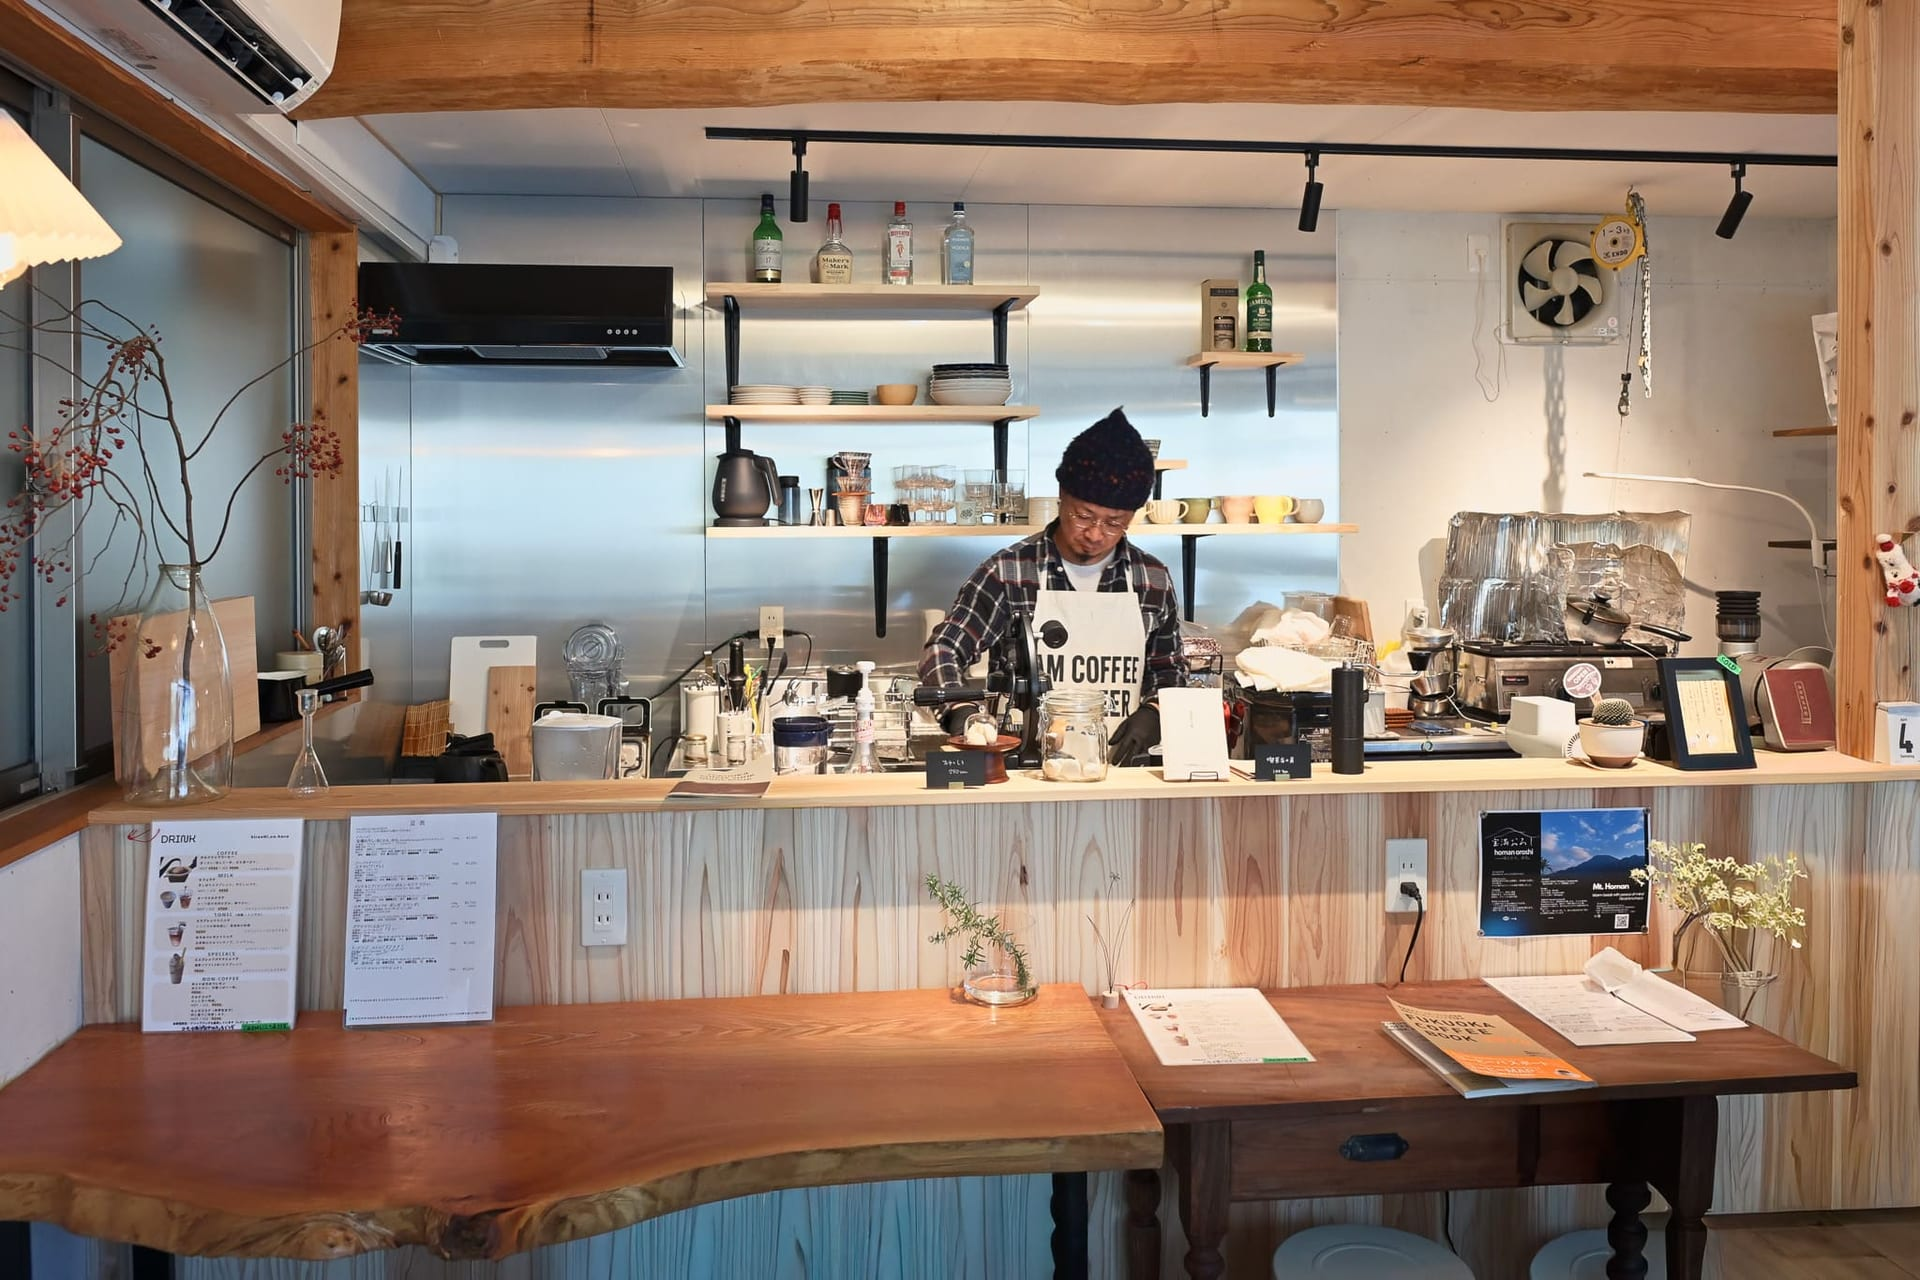
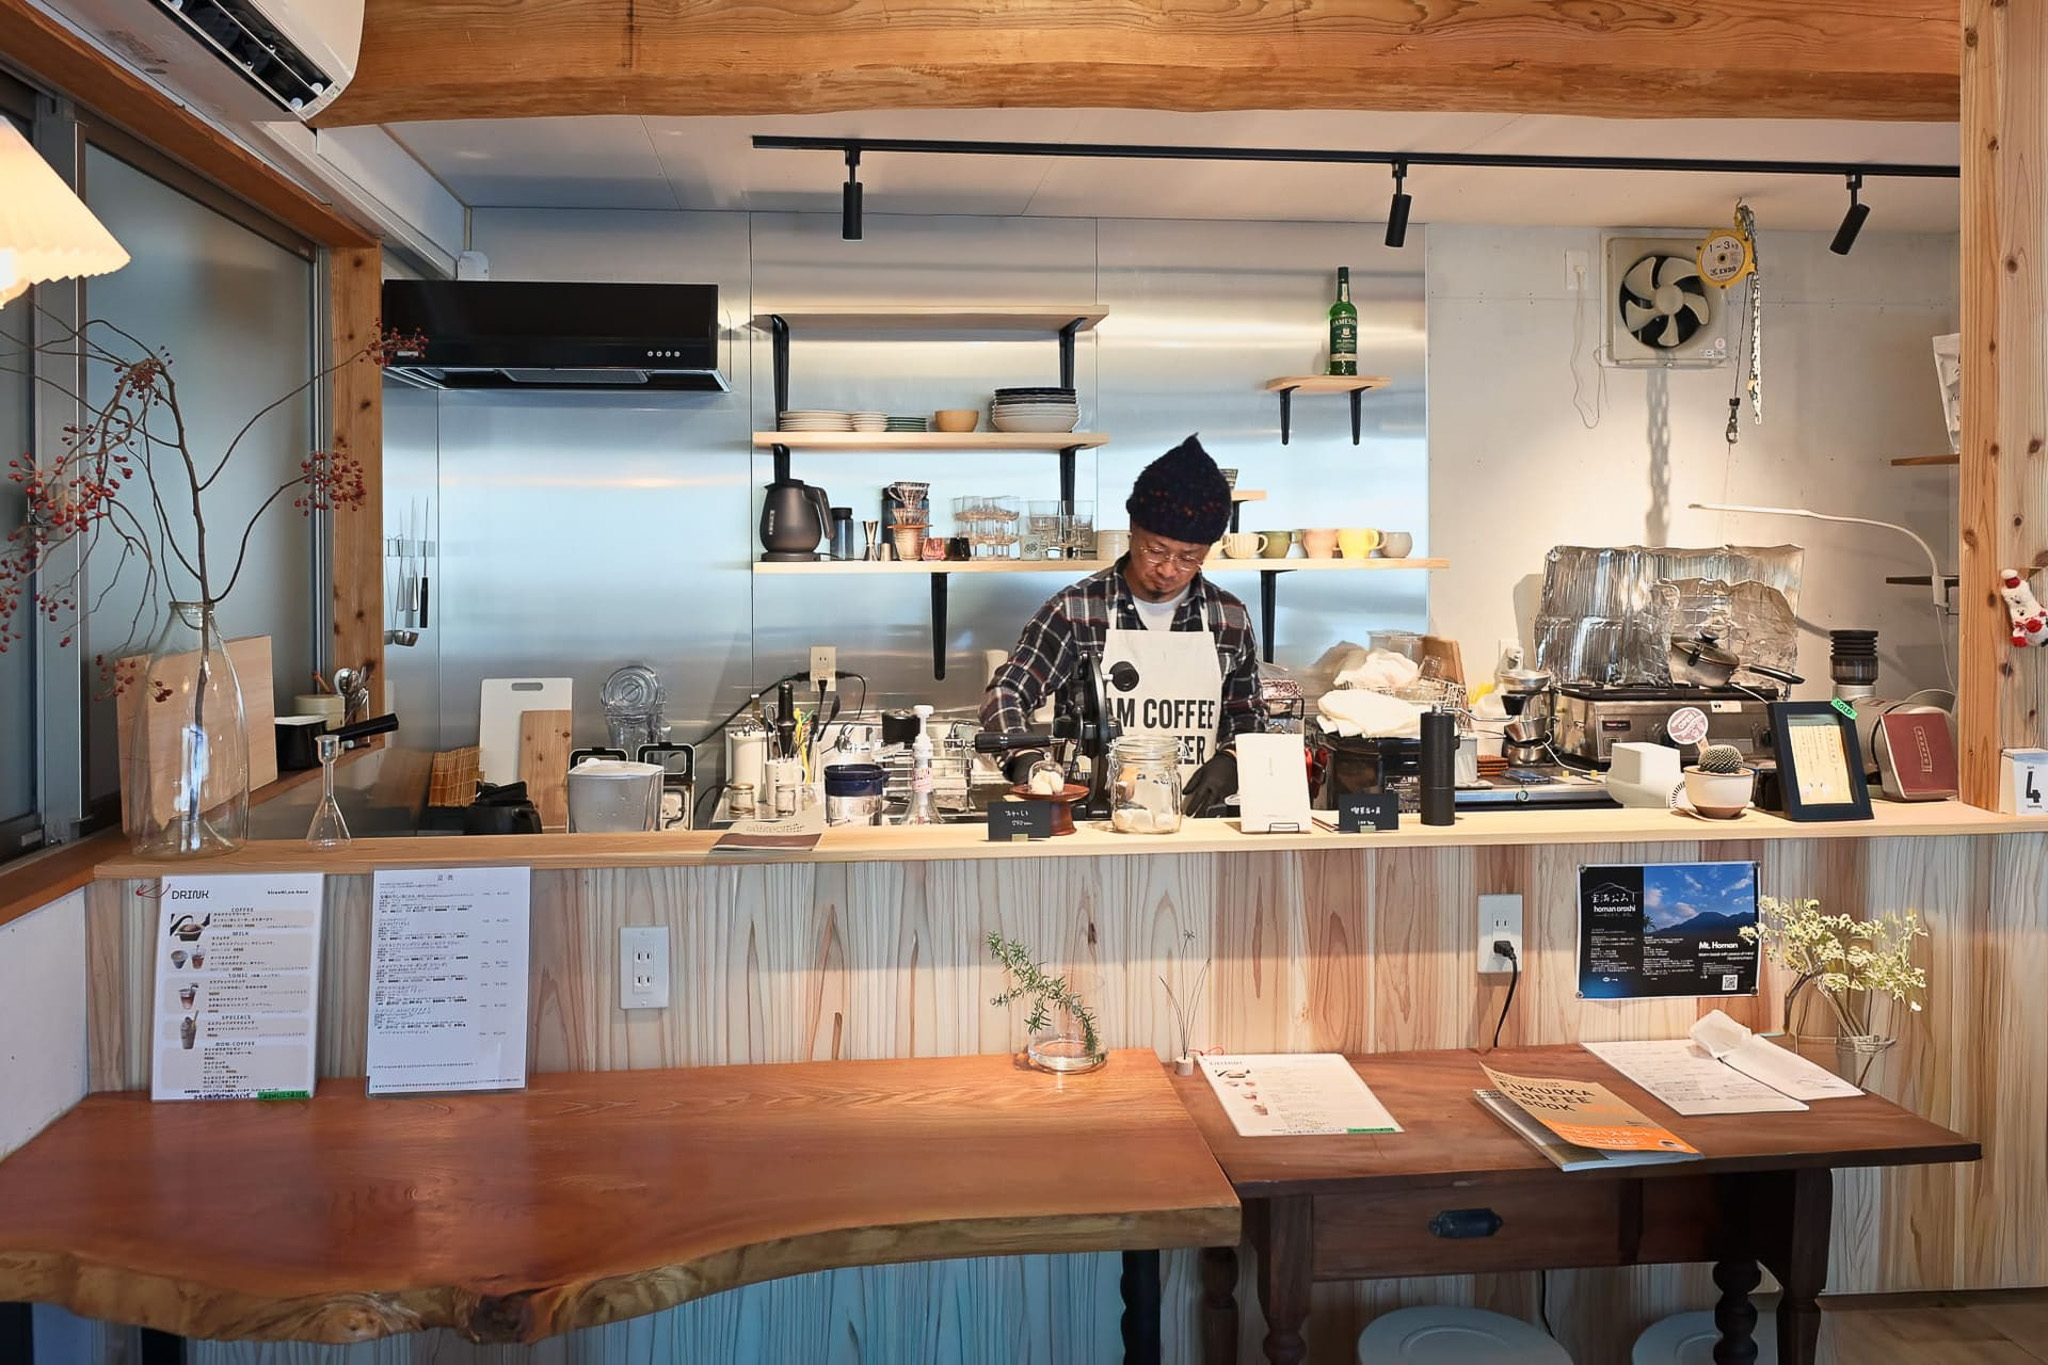
スマホ版変更

Changed region(s): [[0.3438, 0.1562, 0.5312, 0.25], [0.625, 0.2188, 0.6562, 0.2812]]

diff --git a/src/components/Hero/Hero.module.scss b/src/components/Hero/Hero.module.scss
@@ -14,7 +14,11 @@
 
 .hero__bgImage {
   position: absolute;
-  inset: 0;
+  top: 0;
+  left: 0;
+  right: 0;
+  // モバイル: 下側に余分な高さを持たせて上方向に少しズームし、店主の位置を下げる
+  bottom: -90px;
 }
 
 // モバイル: 下から上にグラデーション → 写真上部がよく見える
@@ -26,21 +30,21 @@
   background:
     radial-gradient(
       ellipse 85% 42% at 38% 24%,
-      rgba($color-ivory, 0.55) 0%,
-      rgba($color-ivory, 0.28) 45%,
+      rgba($color-ivory, 0.3) 0%,
+      rgba($color-ivory, 0.14) 45%,
       rgba($color-ivory, 0) 75%
     ),
     radial-gradient(
-      ellipse 90% 32% at 48% 68%,
-      rgba($color-ivory, 0.5) 0%,
-      rgba($color-ivory, 0.25) 45%,
-      rgba($color-ivory, 0) 75%
+      ellipse 100% 42% at 45% 72%,
+      rgba($color-ivory, 0.72) 0%,
+      rgba($color-ivory, 0.45) 50%,
+      rgba($color-ivory, 0) 80%
     ),
     linear-gradient(
       to top,
-      rgba($color-ivory, 0.85) 0%,
-      rgba($color-ivory, 0.55) 40%,
-      rgba($color-ivory, 0.22) 75%,
+      rgba($color-ivory, 0.92) 0%,
+      rgba($color-ivory, 0.68) 35%,
+      rgba($color-ivory, 0.3) 70%,
       rgba($color-ivory, 0.05) 100%
     );
 }
@@ -88,6 +92,8 @@
   align-items: flex-start;
   gap: $space-md;
   width: 100%;
+  // モバイル: 説明文・ボタンをもう少し下に寄せる
+  margin-top: $space-lg;
 }
 
 // ─── ロゴ・ブランド名 ───
@@ -105,8 +111,9 @@
   font-size: clamp(2rem, 9vw, 2.6rem);
   letter-spacing: 0.02em;
   line-height: 1.02;
-  color: $color-accent;
-  -webkit-text-stroke: 0.7px rgba($color-ivory, 0.85);
+  color: #5f7042;
+  -webkit-text-stroke: 0.9px rgba($color-ivory, 0.9);
+  text-shadow: 0 1px 3px rgba($color-text-main, 0.35), 0 0 14px rgba($color-ivory, 0.55);
   paint-order: stroke fill;
 }
 
@@ -136,24 +143,31 @@
   line-height: 1.95;
   color: $color-text-main;
   letter-spacing: 0.04em;
-  text-shadow: 0 0 3px rgba($color-ivory, 1), 0 0 8px rgba($color-ivory, 1), 0 1px 2px rgba($color-ivory, 1);
+  text-shadow: 0 1px 2px rgba($color-ivory, 0.6);
 }
 
 // ─── スマホ版：短く、インパクト重視のコピー ───
 .hero__descriptionMobile {
   display: block;
-  font-size: 1.08rem;
-  line-height: 1.85;
 }
 
-.hero__highlight {
-  display: inline-block;
-  margin-top: 2px;
+.hero__descriptionMain {
   font-family: $font-heading;
-  font-size: 1.3rem;
   font-weight: 700;
-  color: $color-accent;
-  letter-spacing: 0.06em;
+  font-size: 1.05rem;
+  line-height: 1.75;
+  color: $color-text-main;
+  letter-spacing: 0.02em;
+  text-shadow: 0 1px 2px rgba($color-ivory, 0.6);
+}
+
+.hero__descriptionSub {
+  margin-top: $space-xs;
+  font-size: 0.85rem;
+  line-height: 1.8;
+  color: $color-text-sub;
+  letter-spacing: 0.08em;
+  text-shadow: 0 1px 2px rgba($color-ivory, 0.6);
 }
 
 // ─── PC版：詳細コピー（スマホでは非表示） ───
@@ -196,14 +210,6 @@
   display: none;
 }
 
-// ─── モバイル用の発行日テキスト（タブレット以上は縦書き版に切り替え） ───
-.hero__sinceMobile {
-  font-size: 0.68rem;
-  letter-spacing: 0.18em;
-  color: $color-text-sub;
-  text-shadow: 0 0 3px rgba($color-ivory, 1), 0 0 8px rgba($color-ivory, 1);
-}
-
 // ─── スクロール誘導 ───
 .hero__scroll {
   position: absolute;
@@ -243,17 +249,18 @@
     padding: calc($space-3xl + $space-md) $space-lg $space-3xl;
   }
 
+  .hero__bgImage {
+    inset: 0;
+  }
+
   .hero__bgImage :global(img) {
+    object-position: center 20%;
     filter: none;
   }
 
   .hero__logo,
   .hero__tagline {
     text-shadow: none;
-  }
-
-  .hero__sinceMobile {
-    display: none;
   }
 
   .hero__descriptionMobile {
@@ -297,6 +304,7 @@
 
   .hero__bottom {
     gap: $space-lg;
+    margin-top: 0;
   }
 
   .hero__logo {

diff --git a/src/components/Hero/Hero.tsx b/src/components/Hero/Hero.tsx
@@ -77,14 +77,22 @@ export function Hero() {
           </motion.div>
           <motion.div className={styles.hero__bottom} variants={group}>
             <motion.p
-              className={`${styles.hero__description} ${styles.hero__descriptionMobile}`}
+              className={`${styles.hero__descriptionMobile} ${styles.hero__descriptionMain}`}
               variants={item}
             >
-              苦いコーヒーが苦手な店主が仕込む、
+              苦いコーヒーが苦手な店主が
               <br />
-              <span className={styles.hero__highlight}>苦すぎず、ちゃんとおいしい。</span>
+              焙煎する、苦すぎず、
               <br />
-              ネルドリップで、一杯ずつ丁寧に。
+              また飲みたくなる一杯。
+            </motion.p>
+            <motion.p
+              className={`${styles.hero__descriptionMobile} ${styles.hero__descriptionSub}`}
+              variants={item}
+            >
+              福岡県筑紫野市の住宅街にある、
+              <br />
+              小さな自家焙煎コーヒー店です。
             </motion.p>
             <motion.p
               className={`${styles.hero__description} ${styles.hero__descriptionDesktop}`}
@@ -111,9 +119,6 @@ export function Hero() {
                 店舗情報・アクセスを見る
               </a>
             </motion.div>
-            <motion.p className={styles.hero__sinceMobile} variants={item}>
-              since 2026.1.23 — Chikushino, Fukuoka
-            </motion.p>
           </motion.div>
         </motion.div>
       </div>

diff --git a/src/components/Header/Header.module.scss b/src/components/Header/Header.module.scss
@@ -35,8 +35,6 @@
   width: 48px !important;
   height: 48px !important;
   object-fit: contain;
-  // スクロール前は写真の上に直接乗るため、背景を問わず視認できるよう淡い光暈を付ける
-  filter: drop-shadow(0 0 4px rgba($color-ivory, 0.9)) drop-shadow(0 1px 3px rgba($color-ivory, 0.8));
 }
 
 // ───── PC ナビ ─────

diff --git a/src/components/Menu/Menu.tsx b/src/components/Menu/Menu.tsx
@@ -59,6 +59,10 @@ export const Menu = () => {
             ))}
           </ul>
 
+          <p className={styles.note}>
+            自家焙煎豆・ドリップバッグの店頭販売もございます。
+          </p>
+
           <div className={styles.footer}>
             <Link href="/menu" className={styles.button}>
               メニューをすべて見る

diff --git a/src/components/Menu/Menu.module.scss b/src/components/Menu/Menu.module.scss
@@ -146,6 +146,13 @@
   }
 }
 
+.note {
+  font-size: 0.8rem;
+  letter-spacing: 0.03em;
+  color: rgba($color-ivory, 0.5);
+  margin-bottom: $space-md;
+}
+
 .footer {
   text-align: right;
 }
